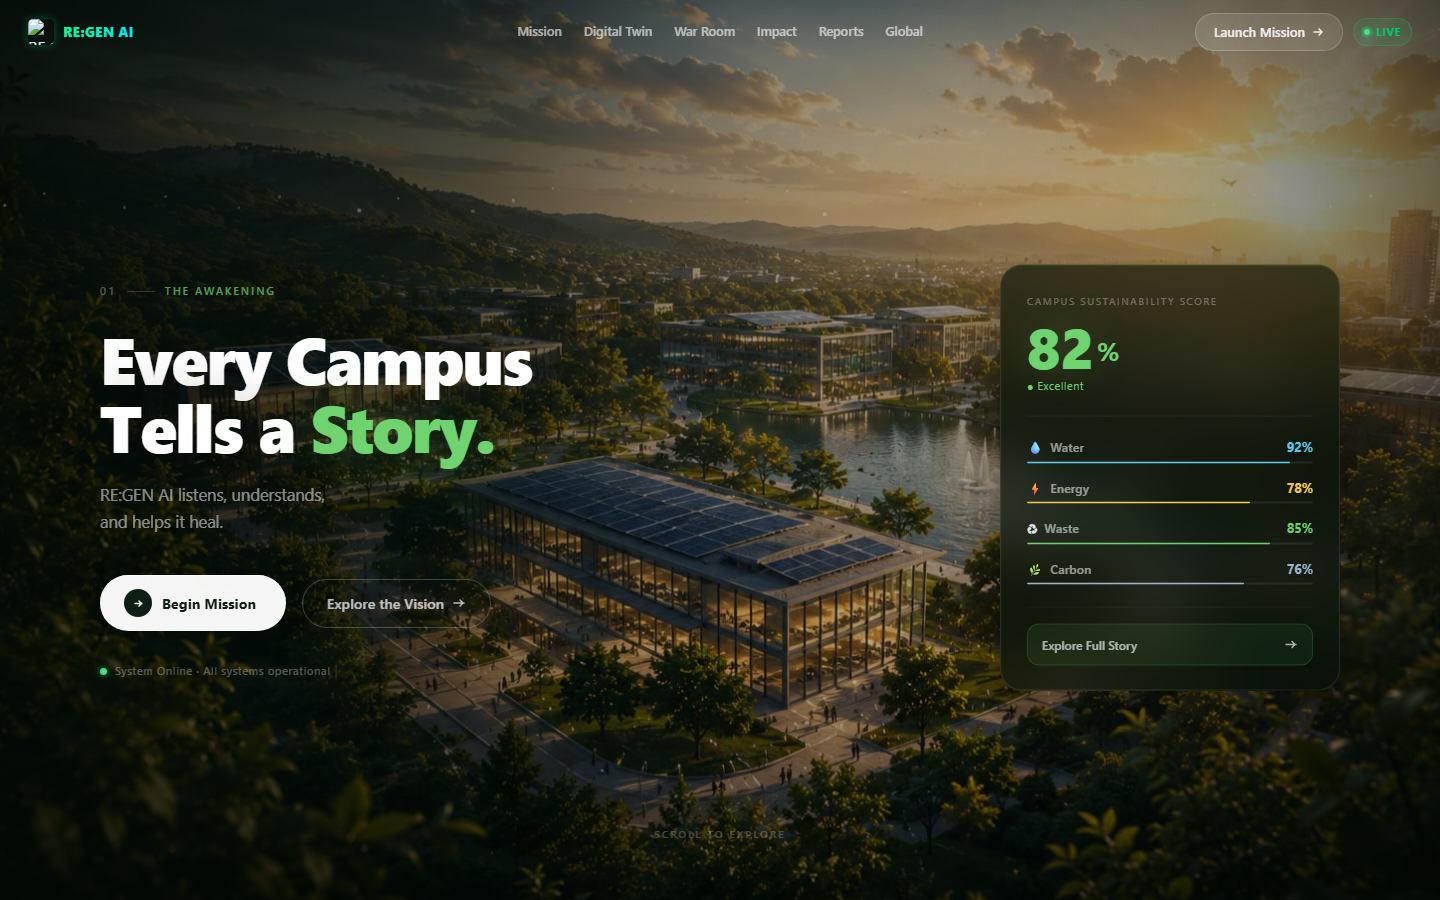
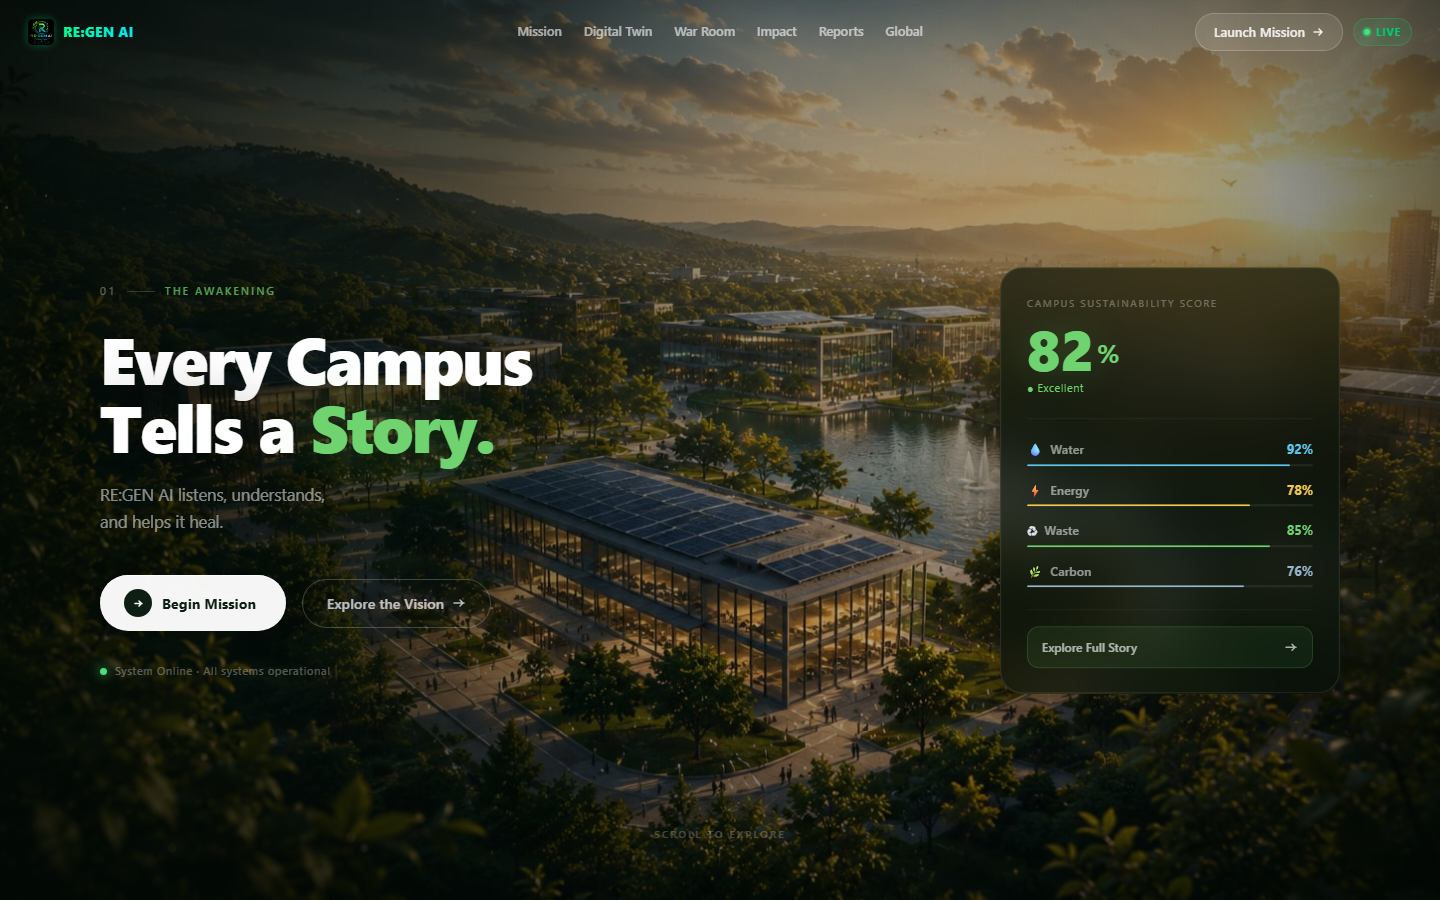
Add production screenshots and final deployment links
- Recaptured all 5 screenshots from live Vercel deployment (1440px desktop)
- hero, digital-twin, war-room, waste-agent, report — all unique sections
- Added demo video placeholder to README
- Live demo: https://frontend-two-rho-85.vercel.app
- Backend API: https://regen-ai-backend.onrender.com/health

diff --git a/README.md b/README.md
@@ -328,7 +328,9 @@ Render free tier spins down after inactivity. The first request after a cold sta
 
 ---
 
-## Demo Video Script
+## Demo Video
+
+**Demo video:** To be added after recording.
 
 A full 3-minute timestamped script with screen recording checklist is in [docs/demo_video_script.md](docs/demo_video_script.md).
 
